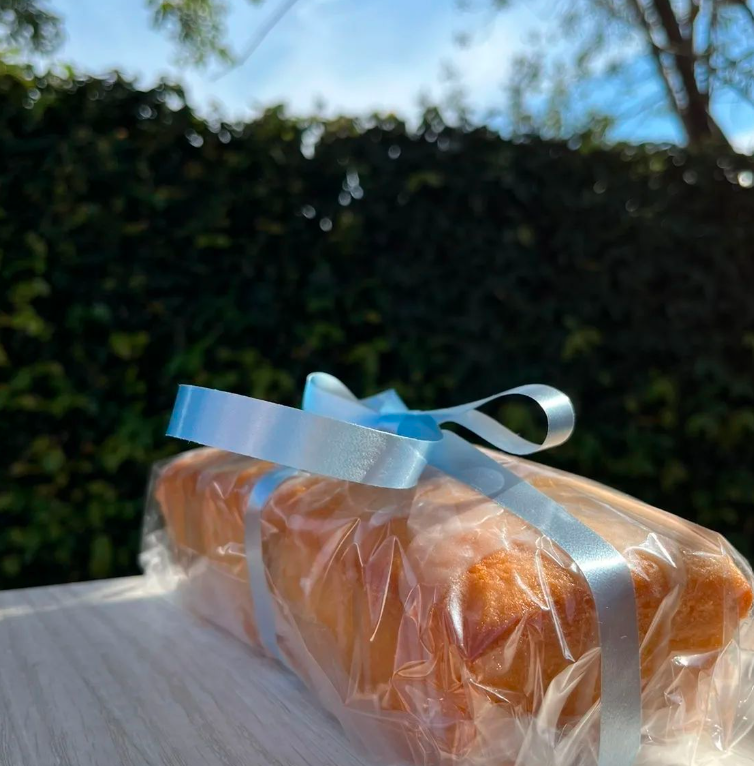
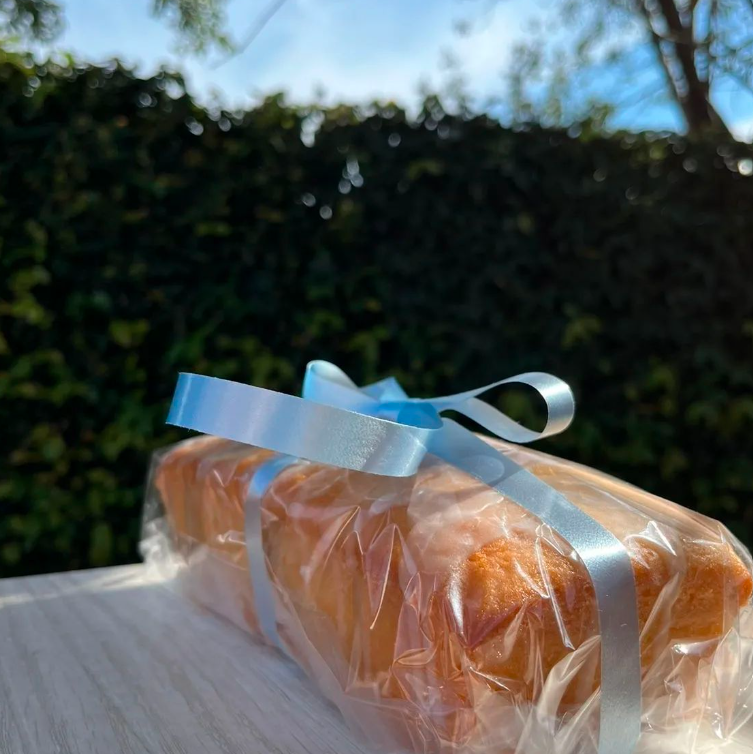
ajustes
fotos cuadradas, operador ternario

diff --git a/js/main.js b/js/main.js
@@ -23,11 +23,7 @@ class Producto {
 
     obtenerDisponibilidad() {
         let disponibilidad;
-        if (this.cantidad > 0) {
-            return disponibilidad = true;
-        } else {
-            return disponibilidad = false;
-        }
+        this.cantidad > 0 ? disponibilidad = true : disponibilidad = false;
     }
 
     agregarStock(cantidad) {
@@ -47,9 +43,9 @@ class Producto {
     }
 }
 
-const budinLimon = new Producto("budines","budín de limón",1500,3,"budinLimon.png");
-const budinMarmolado = new Producto("budines","budín marmolado",1700,0,"budinMarmolado.png");
-const budinNaranja = new Producto("budines","budín de naranja",1600,1,"budinNaranja.png");
+const budinLimon = new Producto("budines","budin de limon",1500,3,"budinLimon.png");
+const budinMarmolado = new Producto("budines","budin marmolado",1700,0,"budinMarmolado.png");
+const budinNaranja = new Producto("budines","budin de naranja",1600,1,"budinNaranja.png");
 const chocotorta = new Producto("tortas","chocotorta",4500,1,"chocotorta.png");
 
 function guardarProductos() {
@@ -72,18 +68,28 @@ obtenerCarrito();
 
 function abrirCarrito() {
     console.log(obtenerCarrito());
+    // obtenerCarrito() != null ? mostrarCarrito() : alert("El carrito está vacío");
+}
+
+function mostrarCarrito() {
+    let productos = obtenerProductos();
+    console.log(obtenerCarrito());
+    obtenerCarrito().forEach(elemento => {
+        console.log(productos.indexOf(elemento));
+    });
 }
 
 function mostrarProductos() {
     let salida = "";
     productos.forEach(producto => {
+        const {imagen, nombre, precio, id} = producto;
         salida += `
         <div class="card col-12 col-sm-6 col-md-4 col-lg-3">
-            <img style="width:100%" src="${producto.imagen}" class="card-img-top" alt="${producto.nombre.toUpperCase()}">
+            <img style="width:100%" src="${imagen}" class="card-img-top" alt="${nombre.toUpperCase()}">
             <div class="card-body">
-                <h5 class="card-title">$${producto.precio}</h5>
-                <p class="card-text">${producto.nombre.toUpperCase()}</p>
-                <button onclick="seleccionarProducto(${producto.id})" class="btn btn-primary">VER INFO.</button>
+                <h5 class="card-title">$${precio}</h5>
+                <p class="card-text">${nombre.toUpperCase()}</p>
+                <button onclick="seleccionarProducto(${id})" class="btn btn-primary">VER INFO.</button>
             </div>
         </div>
         `;

diff --git a/js/verproducto.js b/js/verproducto.js
@@ -14,7 +14,7 @@ function verProducto() {
             <div class="d-flex align-items-center flex-column">
                 <h2>${nombre.toUpperCase()}</h2>
                 <h4 class="text-primary"><b>$${precio}</b></h4>
-                <button onclick="agregarAlCarrito()" class="btn btn-primary mt-3"><i class="fa-solid fa-cart-shopping me-2"></i>AGREGAR</button>
+                <button onclick="agregarAlCarrito(${JSON.stringify(producto)})" class="btn btn-primary mt-3"><i class="fa-solid fa-cart-shopping me-2"></i>AGREGAR</button>
             </div>
         </div>
     </div>`;
@@ -23,9 +23,10 @@ function verProducto() {
 
 verProducto();
 
-function agregarAlCarrito() {
-    let carrito = [];
-    carrito.push(producto);
+function agregarAlCarrito(producto) {
+    let item = JSON.parse(producto);
+    let carrito = localStorage.getItem("carrito");
+    carrito = carrito ? JSON.parse(carrito) : [];
+    carrito.push(item);
     localStorage.setItem("carrito",JSON.stringify(carrito));
-    console.log(JSON.parse(localStorage.getItem("carrito")));
 }
